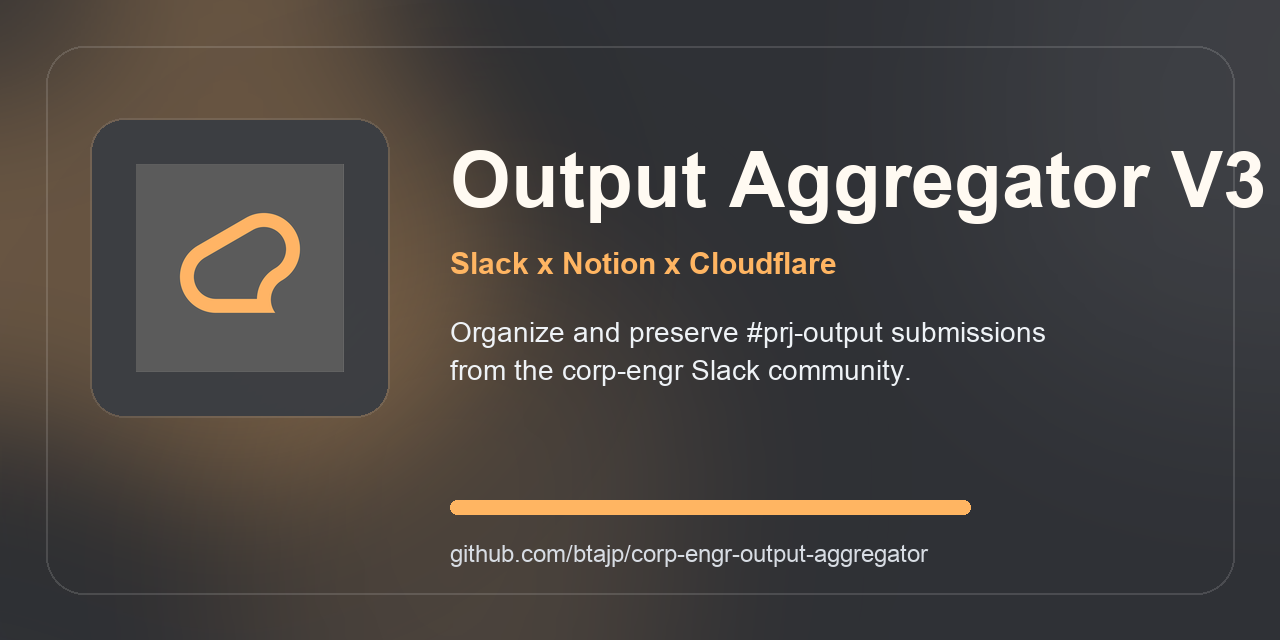
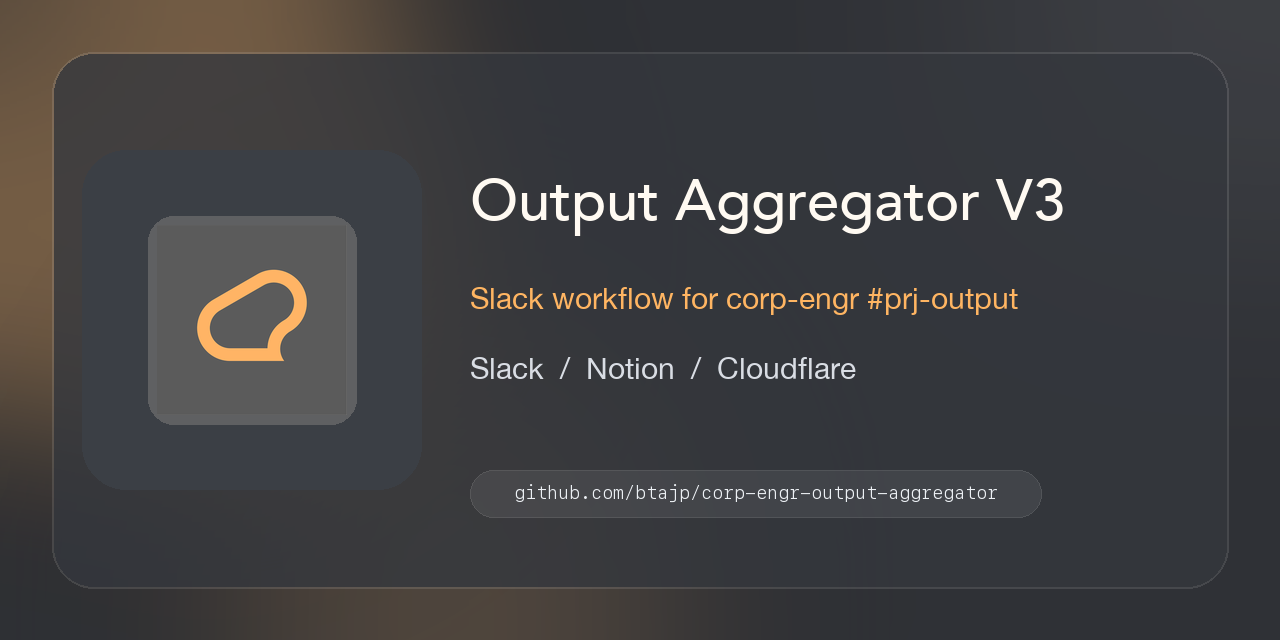
READMEとGitHub OGP設定を更新

Changed region(s): [[0.0, 0.0, 1.0, 0.8125], [0.3438, 0.75, 0.7812, 0.8125], [0.3438, 0.8438, 0.7188, 0.9062]]

diff --git a/README.md b/README.md
@@ -1,7 +1,9 @@
 # corp-engr-output-aggregator
 
-`#prj-output` で共有されたアウトプットを、Slack と Notion に揃えて残すための
-`slack-cli` 管理 Slack Platform app です。Slack 上の公開名は
+[![GitHub Tag](https://img.shields.io/github/v/tag/btajp/corp-engr-output-aggregator?sort=semver)](https://github.com/btajp/corp-engr-output-aggregator/tags)
+
+[`情シスSlack`](https://corp-engr.jp) の `#prj-output` で共有されたアウトプットを、
+Slack と Notion に揃えて残すための `slack-cli` 管理 Slack Platform app です。Slack 上の公開名は
 `Output Aggregator V3` です。
 
 ## できること

diff --git a/CHANGELOG.md b/CHANGELOG.md
@@ -1,5 +1,11 @@
 # Changelog
 
+## 0.1.3
+
+- README 冒頭を `情シスSlack` 向けの表現に調整し、tag badge を追加
+- GitHub の OGP 用画像 `assets/github-social-preview.png` を追加
+- GitHub repository description を README 冒頭に寄せた内容へ更新
+
 ## 0.1.2
 
 - Slack app 名を `Output Aggregator V3` に変更
